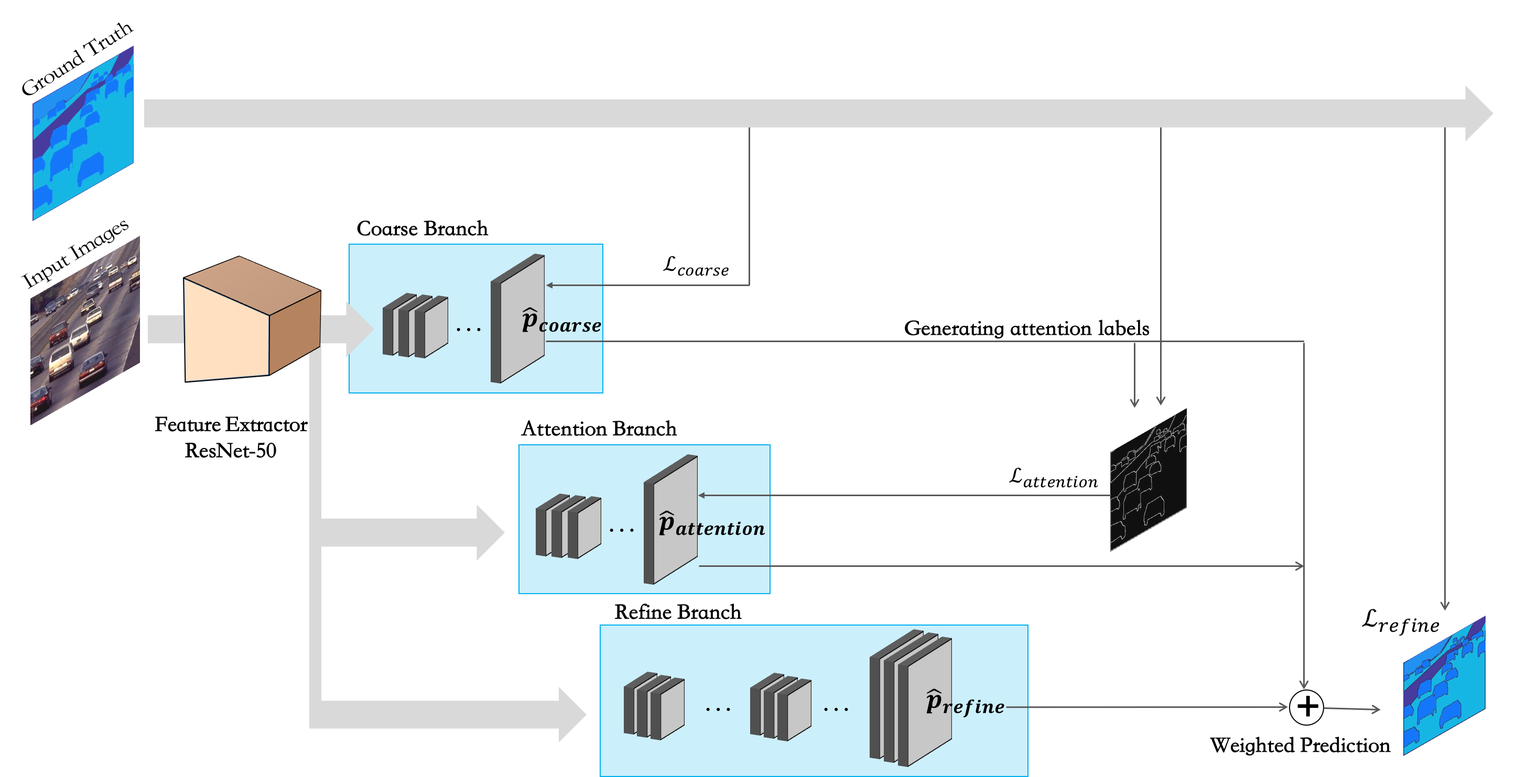
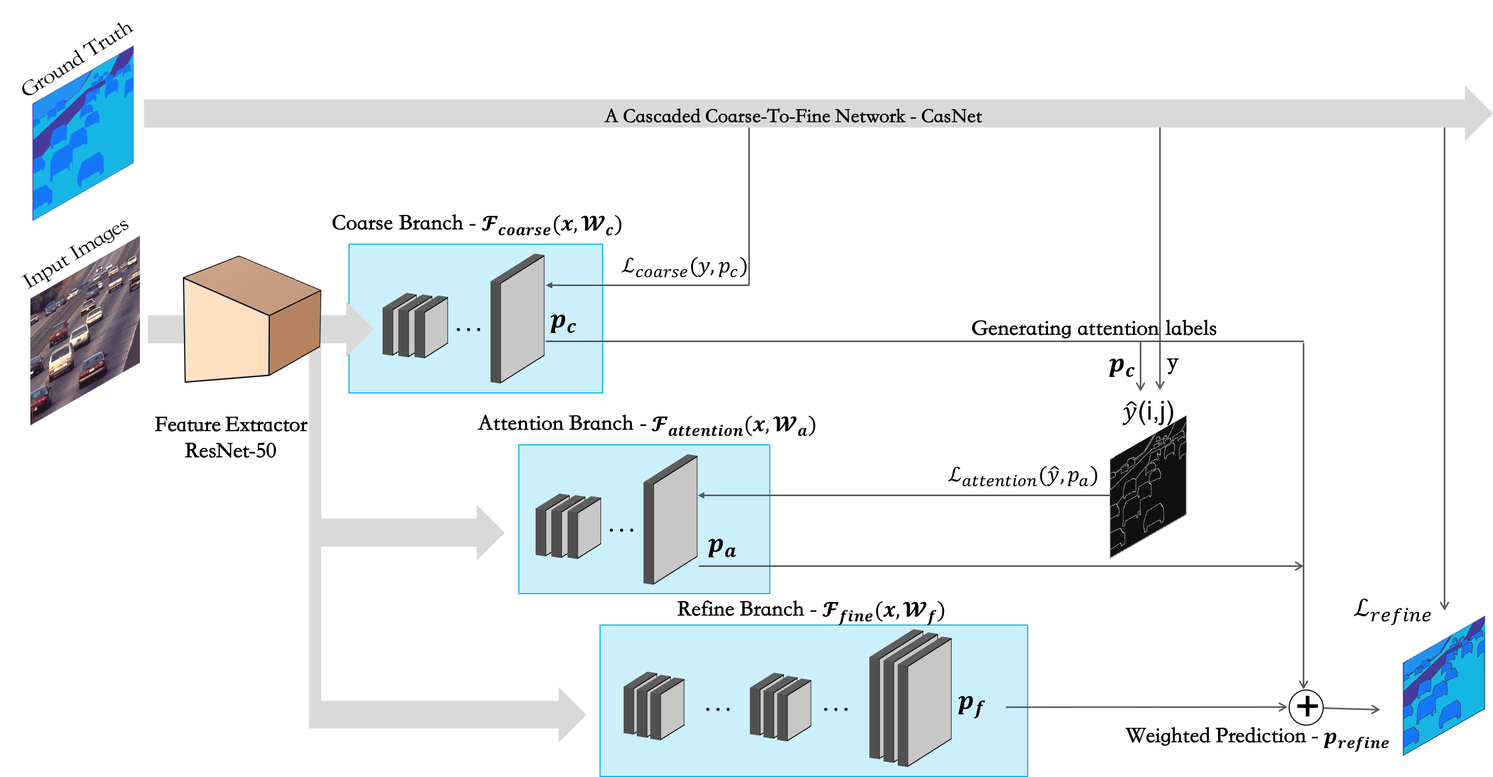
wangshy review-1.0

diff --git a/TST_template_tex(2013-NO3).tex b/TST_template_tex(2013-NO3).tex
@@ -147,7 +147,7 @@ Wang Zhenyang, Deng Zhidong$^*$, and Wang Shiyao
 \linespread{1.6667} %
 \noindent
 \bf{Abstract:} {\sf
-Semantic segmentation, also known as scene labeling, is a fundamental topic in computer vision. The goal is to assign pixel-level labeling to a given image. Recently, convolutional neural networks have great attention on semantic segmentation due to the capabilities of extracting hierarchical features. Since it is required to make dense predictions for the entire image, a simple network is hardly qualified to obtain considerable performances on different scenes. In this paper, we propose a cascaded coarse-to-fine network called CCFN, which aims to pay more attention to the difficult regions. There are three branches in the CCFN. The first branch is responsible for handling easy regions by producing coarse predictions. Subsequently, the second branch learns to distinguish the relatively difficult pixels from the entire image. Finally, the last branch generates the fine predictions and further combine both the coarse and fine predicting results though weighting coefficient estimated from the second branch.
+Semantic segmentation, also known as scene labeling, is a fundamental topic in computer vision. The goal is to assign pixel-level labeling to a given image. Recently, convolutional neural networks have great attention on semantic segmentation due to the capabilities of extracting hierarchical features. Since it is required to make dense predictions for the entire image, a simple network is hardly qualified to obtain considerable performances on different scenes. In this paper, we propose a cascaded coarse-to-fine network called CasNet, which aims to pay more attention to the difficult regions. There are three branches in the CasNet. The first branch is responsible for handling easy regions by producing coarse predictions. Subsequently, the second branch learns to distinguish the relatively difficult pixels from the entire image. Finally, the last branch generates the fine predictions and further combine both the coarse and fine predicting results though weighting coefficient which is estimated by the second branch.
 All above branches focus on their own objectives and collaboratively learn to predict from coarse to fine. In order to evaluate the performance of the proposed network, we conduct experiments on two public datasets including Sift Flow and Stanford Background Dataset. We show that the three branches can be trained in an end-to-end manner and the experimental results demonstrate that compared to all existing models, our CasNet consistently yields the best performance, with accuracy of 91.6\% and 89.7\%, respectively.
 }
 \vskip 4mm
@@ -193,13 +193,13 @@ To whom correspondence should be addressed. \\
 \label{s:introduction}
 \noindent
 
-Semantic segmentation has a strong application requirement in the field of environment perception and autonomous self driving car. The goal of semantic segmentation is to identify and assign a category label to each pixel in the image, which requires a complete understanding of the context of the entire image. In recent years, deep learning has made great breakthroughs in computer vision, such as image classification\upcite{1}, speech recognition\upcite{2}, and object detection\upcite{3}. For the task of semantic segmentation, there are also lots of methods based on deep learning. Early research attempts to apply CNNs designed for image classification directly to semantic segmentation. Although good segmentation results can be obtained, the prediction results are rough and the edges of objects are difficult to separate correctly. This is mainly caused by lacking of location information. Consequently, the fully convolutional neural network(FCN)\upcite{4} is proposed to overcome this disadvantage, and becomes the most popular framework for semantic segmentation.
+Semantic segmentation has a wide range of applications, including environment perception and autonomous self driving car. The goal of semantic segmentation is to identify and assign a category label to each pixel in the image, which requires a complete understanding of the context of the whole image. In recent years, deep learning has made great breakthroughs in computer vision, such as image classification\upcite{1}, speech recognition\upcite{2}, and object detection\upcite{3}. For the task of semantic segmentation, there are also lots of methods based on deep learning. Early research attempts to apply CNNs designed for image classification directly to semantic segmentation. Although good segmentation results can be obtained, the prediction results are rough and the edges of objects are difficult to recognized correctly. This is mainly caused by lacking of location information. Consequently, the fully convolutional neural network(FCN)\upcite{4} is proposed to overcome this disadvantage, and becomes the most popular framework for semantic segmentation. However, there still exists several challenges to work with.
 
-Firstly, in order to solve the problem of delineating visual objects, conditional random field, Markov random field, Gaussian conditional random field, and other variations are proposed. However, with the rapid development of CNN architectures, a network via end-to-end training procedure, such as ResNet\upcite{1}, can achieve the same or even better segmentation results. In addition to this simple network, we will introduce a model with multiple segmentation branches to refine the predicting results which we called CasNet.
+On the one hand, in order to improve the localization of object boundaries, conditional random field, Markov random field, Gaussian conditional random field, and other variations are proposed. Besides, with the rapid development of CNN architectures, a network via end-to-end training procedure, such as ResNet\upcite{1}, can achieve the same or even better segmentation results. On the other hand, the unbalance of the easy and difficult pixels can also wreck the convergence of the network. Automatic selection of these hard examples can make training more effective and efficient. In fact, hard negative mining is not a new concept. As early as 1994, Sung and Poggio~\upcite{5} proposed bootstrapping method in their face detection algorithm. The main purpose is to enhance the detection capacity by changing the distribution of difficult samples. 
 
-Secondly, the unbalance of the easy and difficult pixels can also wreck the convergence of the network. Aiming to deal with the problem of unbalanced distribution, we propose a novel semantic segmentation network framework, which is inspired by hard negative example mining. In fact, hard negative mining is not a new concept. As early as 1994, Sung and Poggio~\upcite{5} proposed bootstrapping method in their face detection algorithm. The main purpose is to enhance the detection capacity by changing the distribution of difficult samples. Inspired by a similar idea, a cascade coarse-to-fine network architecture, CasNet for short, is proposed. CasNet is composed by three branches which share a same feature extraction network. The first branch is a coarse segmentation network which is able to handle the easy and confident regions. The second branch is an attention network used to predict the probability of being a hard example for each pixel. For these difficult pixels, the third segmentation branch is proposed to refine the segmentation results. 
+In this paper, a cascaded coarse-to-fine network architecture, CasNet for short, is proposed. Different from the previous work that uses a simple network, we attempt to explore a model with multiple segmentation branches which are collaboratively to refine the predicting results. Specifically, CasNet is composed by three branches which share a same feature extraction network but focus on their own targets. The first branch is a coarse segmentation network which is able to handle the easy and confident regions. Aiming to deal with the problem of unbalanced distribution, the second branch is an attention network used to predict the probability of being a hard example for each pixel. For these difficult pixels, the last segmentation branch is exploited to refine the segmentation results. 
 
-In conclusion, we propose a cascade coarse-to-fine network architecture for semantic segmentation. Compared with  traditional semantic segmentation networks, CasNet has the following characteristics: 
+To sum up, we address the task of semantic image segmentation with a cascaded coarse-to-fine network architecture. It incorporates the idea of hard mining by using an attention branch that are experimentally shown to have substantial practical merit. We validate the CasNet on both Sift Flow\upcite{6} and Stanford Background\upcite{7} datasets
 
 
 \begin{figure}
@@ -210,22 +210,12 @@ In conclusion, we propose a cascade coarse-to-fine network architecture for sema
 \end{figure} 
 
 
-\noindent
-  $\bullet$ A cascade segmentation network architecture to refine the final segmentation results.
-  
-\noindent
-  $\bullet$ Incorporate the idea of hard mining as an attention branch.
-  
-\noindent
-  $\bullet$ Validate CasNet on both Sift Flow\upcite{6} and Stanford Background\upcite{7} datasets.
-
-
 \section{Related Works}
 \label{s:Related}
 \noindent
-Semantic segmentation aims to assign an unique semantic class to each pixel in the input image. Early work is mainly based on hand-craft features, until convolution neural network is successfully applied to this task in recent years.
+Semantic segmentation aims to assign an unique semantic class to each pixel of the input image. Early work is mainly based on hand-craft features, until the convolution neural network is successfully applied to this task in recent years.
 
-Traditional methods have obtained several solutions on semantic segmentation. Considering the context information, several methods rely on MRF, CRF or other types of graphical models are proposed to ensure the consistency of labeling\upcite{8,10}. For semantic segmentation task, both the global and local context have great impacts on the final segmentation results. Traditional methods only take the low-level features of the image into consideration, which is the biggest problem of this kind of methods.
+Traditional methods have obtained several solutions on semantic segmentation. Considering the context information, several methods based on MRF, CRF or other types of graphical models are proposed to ensure the consistency of labeling\upcite{8,10}. For semantic segmentation task, both the global and local context have great impacts on the final segmentation results. Traditional methods only take the low-level features of the image into consideration, which is particularly problematic for this task.
 
 \begin{figure*}[!ht]
 \centering
@@ -234,29 +224,29 @@ Traditional methods have obtained several solutions on semantic segmentation. Co
 \label{fig2}
 \end{figure*} 
 
-Driven by deep neural networks, there are three types of methods devoted to improve architectural design. One direction is mainly based on multi-scale feature ensemble, since high layer feature contains more semantic information. To our knowledge,  Farabet et.al.~\upcite{11}  pioneer to apply CNNs to semantic segmentation. They propose a multi-scale convolution neural network, which can extract features from different scale of local regions. The experimental results show that their network has capacities of learning texture, shape and domain information implicitly. A similar idea is successfully generalised to RGB-D images by Couprie et.al.~\upcite{12}. Zhao et. al.~\upcite{21} propose pyramid pooling to aggregate different level of context information, which can effectively produce good quality results on semantic segmentation task.
+Driven by deep neural networks, there are three types of methods devoted to improve architectural design. One direction is mainly based on multi-scale feature ensemble, since high layer feature contains more semantic information. To our knowledge,  Farabet et.al.~\upcite{11}  pioneer to apply CNNs to semantic segmentation. They propose a multi-scale convolution neural network, which can extract features from different scale of local regions. The experimental results show that their network has capacities of learning texture, shape and domain information implicitly. A similar idea is successfully generalized to RGB-D images by Couprie et.al.~\upcite{12}. Zhao et. al.~\upcite{21} propose pyramid pooling to aggregate different level of context information, which can effectively produce good quality results on semantic segmentation task.
 
-Another direction focuses on enlarging the receptive field of neural networks. Yu and Koltun~\upcite{29} propose dilated convolutions to systematically aggregate multi-scale contextual information without losing resolution. In \cite{30}, recurrent neural networks are used to retrieve contextual information by sweeping the image horizontally and vertically in both directions. With a similar idea, Liang~\upcite{24} adopts recurrent convolutional neural network to incorporate both the local discriminative features and the global context information.
+Another direction focuses on enlarging the receptive field of neural networks. Yu and Koltun~\upcite{29} propose dilated convolutions to systematically aggregate multi-scale contextual information without losing resolution. In \cite{30}, recurrent neural networks are used to retrieve contextual information by sweeping the image horizontally and vertically in both directions. Besides, Liang~\upcite{24} adopts recurrent convolutional neural network to incorporate both the local discriminative features and the global context information.
 
 The last direction endow FCN architectures with the ability to provide structured outputs. 
-Chen et.al.~\upcite{31} are the pioneers who first adopt  conditional random field  as post processing to refine the final segmentation results. Zheng et.al.~\upcite{32} follow the work. They combines
-the strengths of convolutional neural networks and conditional random fields based probabilistic graphical modelling, making it possible to train the whole deep network end-to-end.
+Chen et.al.~\upcite{31} are the pioneers who first adopt conditional random field  as post processing to refine the final segmentation results. Zheng et.al.~\upcite{32} follow the work. They combine
+the strengths of convolutional neural networks and conditional random fields based on probabilistic graphical modeling, making it possible to train the whole deep network end-to-end.
 
-At the same time, researchers attempt to use the pre-trained CNNs for semantic segmentation. Mostajabi et.al.~\upcite{17} obtain the local features by using convolutional neural networks, while  global features are produced from Alex-net. These above features are further aggregated to predict the categories. Differ from this method, \cite{19} present a fully convolutional network which is able to take input of arbitrary size and produce correspondingly-sized output with efficient inference and learning. They use the CNNs trained on ImageNet as a feature extractor and transfer their learned representations by fine-tuning on the task-specific datasets.
+At the same time, researchers attempt to use the pre-trained CNNs for semantic segmentation. Mostajabi et.al.~\upcite{17} obtain the local features by using convolutional neural networks, while  global feature representations are produced from Alex-net. These above features are further aggregated to predict the categories. Differ from this method, \cite{19} present a fully convolutional network which is able to take input of arbitrary sizes and produce correspondingly-sized output with efficient inference and learning. They use the CNNs trained on ImageNet as a feature extractor and transfer their learned representations by fine-tuning on the task-specific datasets.
 
 \section{Method}
 \label{s:Method}
 \noindent
 
 
-Inspired by online hard example mining(OHEM) algorithm, we propose a cascade coarse to fine network architecture CasNet. The framework of the proposed CasNet is shown in Figure~\ref{fig2}. Given an image, firstly a ResNet is employed to extract feature representation. Then, the proposed CasNet will be exploited to learn the task-specific objective. In the following subsection, Section~\ref{s:feature} illustrates how to apply a ImageNet pre-trained model to extract feature representation of the given image. At last, Section~\ref{s:casnet} provides the detailed information of the cascade coarse to fine semantic segmentation network, particularly the three branches which are expected to collaboratively learn to predict from coarse to fine.
+Inspired by online hard example mining(OHEM) algorithm, we propose a cascaded coarse-to-fine network architecture called CasNet. The framework of the proposed CasNet is shown in Figure~\ref{fig2}. Given an image, a ResNet is employed to extract feature representation. Then, the proposed CasNet will be exploited to learn the task-specific targets. In the following subsection, Section~\ref{s:feature} illustrates how to apply a ImageNet pre-trained model to extract feature representation of the given image. And Section~\ref{s:casnet} provides the detailed information of the cascaded coarse-to-fine semantic segmentation network, particularly the three branches which are expected to collaboratively learn to predict from coarse to fine.
 
 
 \subsection{Feature Extraction Network}
 \label{s:feature}
 \noindent
 
-We choose ResNet-50 which is pre-trained on ImageNet as our feature extractor. ResNet originally is designed for image classification which won ILSRVC 2015 competition and surpass the human performance on ImageNet dataset. It has super capacities of extracting hierarchical representations. Considering the computation resources and memory consumption, we choose ResNet-50 rather than ResNet-101, but it can still achieve comparable accuracy. In Figure~\ref{fig2}, the hexahedron presents the feature extractor. Although we just use this simplified figure to present the ResNet-50, it is composed by five stages with different configurations of layers and a classification stage. The building block of ResNet can be defined as:
+We choose ResNet-50 which is pre-trained on ImageNet as our feature extractor. ResNet originally is designed for image classification which won ILSRVC 2015 competition and surpass the human performance on ImageNet dataset. It has super capacities of extracting hierarchical representations. Considering the computation resources and memory consumption, we choose ResNet-50 rather than ResNet-101, but it can still achieve comparable accuracy. In Figure~\ref{fig2}, the hexahedron presents the feature extractor. Although we just use this simplified figure to present the ResNet-50, it is composed of five stages with different configurations of layers and a classification stage. The building block of ResNet can be defined as:
 
 \begin{equation}\label{equ1}
 \setlength\abovedisplayskip{4pt}
@@ -265,7 +255,7 @@ We choose ResNet-50 which is pre-trained on ImageNet as our feature extractor. R
 y = F(x, \{W_{i}\}) + x \\
 \end{split}
 \end{equation} 
-where $x$ and $y$ denote the input and output of a layer. The function $F(x, \{W_{i}\})$ indicates the residual mapping while the $W_{i}$ represents a group of learnable weights. The operation $F + x$ is performed by a shortcut connection and element-wise which in fact combine the features of multi-scale. It benefits the segmentation task a lot. For semantic segmentation,  the context is important to predict the correct label of each pixel instance. But it is difficult to determine the context boundary of each pixel, since different objects may have different contours. The problem becomes more complicated when considering the various perspective of each images. A simple yet effective method to solve this problem is to integrate multi-scale features for label predicting. Consequently, the residual error model itself has the property of extracting and integrating multi-scale features, which can be seen from Equation \ref {equ1}. From the unravelled view by Veit et al.~\upcite{22}, a two-unit ResNet is equivalent to an ensemble of four sub-networks with different receptive fields. So the whole ResNet-50 can be expanded as a linearly growing ensemble of sub-networks, which can extract and integrate multi-scale features.
+where $x$ and $y$ denote the input and output of a layer. The function $F(x, \{W_{i}\})$ indicates the residual mapping while the $W_{i}$ represents a group of learnable weights. The operation $F + x$ is performed by a shortcut connection and element-wise which in fact combine the features of multi-scale. It benefits the segmentation task a lot. For semantic segmentation,  the context is important to predict the correct label of each pixel instance. However, since different objects may have different contours, it is difficult to determine the boundaries of context. The problem becomes more complicated when considering the various perspectives of each image. A simple yet effective method to solve this problem is to integrate multi-scale features for label predicting. Consequently, the residual error model itself has the property of extracting and integrating multi-scale features, which can be seen from Equation \ref {equ1}. From the unravelled view by Veit et al.~\upcite{22}, a two-unit ResNet is equivalent to an ensemble of four sub-networks with different receptive fields. So the whole ResNet-50 can be expanded as a linearly growing ensemble of sub-networks, which can extract and integrate multi-scale features.
 
 Besides, there are two improvements adopted by ResNet-50 to make it more suitable for semantic segmentation. First, we only keep the first three pooling layers in order to preserve the resolution. So the final resolution of the prediction is 1/8 of the original input image. Secondly, we replace the convolutional layer in the last two stages with the dilated convolutions. It can help to enlarge the reception field of predicted feature maps.
 
@@ -306,11 +296,11 @@ Equation \ref{equ2} and \ref{equ3} allow to train the coarse segmentation branch
 \label{s:ab}
 \noindent
 
-After the first stage of segmentation, there still exists several regions which cannot be determined by the coarse segmentation network. To our knowledge, each segmentation image contain a large number of easy pixel instances and a small number of difficulty pixel instances. Paying more attention on these difficulty pixel instances can make the training process converge faster and efficiently. However, we have no labels that indicate which regions are difficult. 
+After the first stage of segmentation, there still exists several regions which cannot be determined by the coarse segmentation network. To our knowledge, each segmentation image contain  an overwhelming number of easy pixel instances and a small number of difficult pixel instances. Paying more attention on these difficult pixel instances can make the training process converge faster and more efficiently. However, we have no labels that indicate which regions are difficult. 
 
-From previous research work, hard example mining is one of the commonly used training techniques for machine learning. The traditional implementation is a continuous iterative process which could be divided into two steps. Firstly, the training model is fixed to figure out the difficult examples, and the training set is updated by adding a certain rate of difficult examples. Secondly, with the updated training set, the model is re-trained.
+From previous work, hard example mining is one of the commonly used training techniques for machine learning. The traditional implementation is a continuous iterative process which could be divided into two steps. Firstly, the training model is fixed to figure out the difficult examples, and the training set is updated by adding a certain rate of difficult examples. Secondly, with the updated training set, the model is re-trained.
 
-In this paper, the two-step process of hard example mining is improved to an end-to-end learning framework. For semantic segmentation, each pixel should be assigned a category label. So a single image contain enough training samples for hard example mining. The attention branch is used to predict the segmentation difficulty of each pixel in terms of the results of coarse segmentation branch. It shares the same feature extraction network as the coarse segmentation branch. Moreover, they even have the similar network structure.  As shown in Equation \ref{equ4}, the $\mathcal{F}_{attention}$ is the attention branch with the learnable weights $ \mathcal{W}_a$ and the input is also $x$, which is the shared feature as Equation \ref{equ2}. The major difference is that the attention branch is a two-category semantic segmentation network while the coarse branch is responsible for learning much more categories.
+In this paper, the two-step process of hard example mining is improved to an end-to-end learning framework. For semantic segmentation, each pixel should be assigned a category label. So a single image contain enough training samples for hard example mining. The attention branch is used to predict the segmentation difficulty of each pixel in terms of the results of coarse segmentation branch. It shares the same feature extraction network with the coarse segmentation branch. Moreover, they even have the similar network structure.  As shown in Equation \ref{equ4}, the $\mathcal{F}_{attention}$ is the attention branch with the learnable weights $ \mathcal{W}_a$ and the input is also $x$, which is the shared feature in Equation \ref{equ2}. The major difference is that the attention branch is a two-category semantic segmentation network while the coarse branch is responsible for learning much more categories.
 \begin{equation}\label{equ4}
 \setlength\abovedisplayskip{8pt}
 \setlength\belowdisplayskip{8pt}
@@ -319,7 +309,7 @@ p_{a}(i,j) &= \mathcal{F}_{attention}(x, \mathcal{W}_a)\\
 \end{split}
 \end{equation} 
 
-During the training process, the attention branch is supervised by a label map with 0/1 values, indicating  easy or difficult for the pixel in corresponding position. The attention branch is cascaded behind the coarse segmentation branch, so the label map $\hat{y}$ can be generated by a comparison between the prediction of the coarse segmentation branch $p_{c}^k(i,j)$ and the segmentation ground truth $y(i,j)$. 0 indicates the pixel is misclassified by the coarse segmentation branch, while 1 represents a correct prediction. The 0/1 label map is used as the ground truth of the attention branch in Equation \ref{equ6}, supervising the attention branch to learn the segmentation difficulty of each pixel.
+During the training process, the attention branch is supervised by a label map with 0/1 values, indicating  easy or difficult for the pixel in corresponding position. The attention branch is cascaded behind the coarse segmentation branch, so the label map $\hat{y}$ can be generated by a comparison between the prediction of the coarse segmentation branch $p_{c}^k(i,j)$ and the segmentation ground truth $y(i,j)$ in Equation \ref{equ5}. 0 indicates the pixel is misclassified by the coarse segmentation branch, while 1 represents a correct prediction. The 0/1 label map is used as the ground truth of the attention branch in Equation \ref{equ6}, supervising the attention branch to learn the segmentation difficulty of each pixel.
 \begin{equation}\label{equ5}
 \setlength\abovedisplayskip{8pt}
 \setlength\belowdisplayskip{8pt}
@@ -352,10 +342,10 @@ During the testing process, the attention branch heuristically filter out the ha
 \label{s:rsb}
 \noindent
 
-The refine segmentation branch is cascaded behind the coarse and the attention as shown on the third row in Figure~\ref{fig2}. This branch is more complicated compared with the first two branches. It contains a fine segmentation network $\mathcal{F}_{fine}$ in Equation \ref{equ7} and a weighted summation of unit $p_{refine}(i,j)$ in Equation \ref{equ8} to refine the final segmentation results.
+The refine segmentation branch is cascaded behind the coarse and the attention as shown on the third row in Figure~\ref{fig2}. This branch is more complicated compared with the first two branches. It contains a fine segmentation network $\mathcal{F}_{fine}$ in Equation \ref{equ7} and a weighted summation $p_{refine}(i,j)$ in Equation \ref{equ8} to refine the final segmentation results.
 
-Since the coarse segmentation branch is hard to segment all the pixels correctly, the pixel which can be segment correctly by the coarse segmentation branch is denote as easy pixel instances, while the others are difficult ones.
-A fine segmentation network is introduced to focus on reclassification of the difficult pixel instances. Inspired by the PSPNet~\upcite{21}, pyramid pooling is adopted by the fine segmentation network to extract multi-scale features. And the final segmentation results is a weighted summation of the coarse segmentation branch and the fine segmentation network, with the weighting coefficient predicted by the attention branch. The final segmentation results relay more on the coarse segmentation branch if the pixel is predicted as an easy one. Otherwise, the fine segmentation network takes up a larger proportion. 
+Since the coarse segmentation branch is hard to segment all the pixels correctly, the pixel which can be segment correctly by the coarse segmentation branch is denoted as easy pixel instances, while the others are difficult ones.
+A fine segmentation network is introduced to focus on reclassification of the difficult pixel instances. Inspired by the PSPNet~\upcite{21}, pyramid pooling is adopted by the fine segmentation network to extract multi-scale features. And the final segmentation results is a weighted summation of the coarse segmentation branch and the fine segmentation network, with the weighting coefficient predicted by the attention branch. The final segmentation results rely more on the coarse segmentation branch if the pixel is predicted as an easy one. Otherwise, the fine segmentation network takes up a larger proportion. 
 \begin{equation}\label{equ7}
 \setlength\abovedisplayskip{8pt}
 \setlength\belowdisplayskip{8pt}
